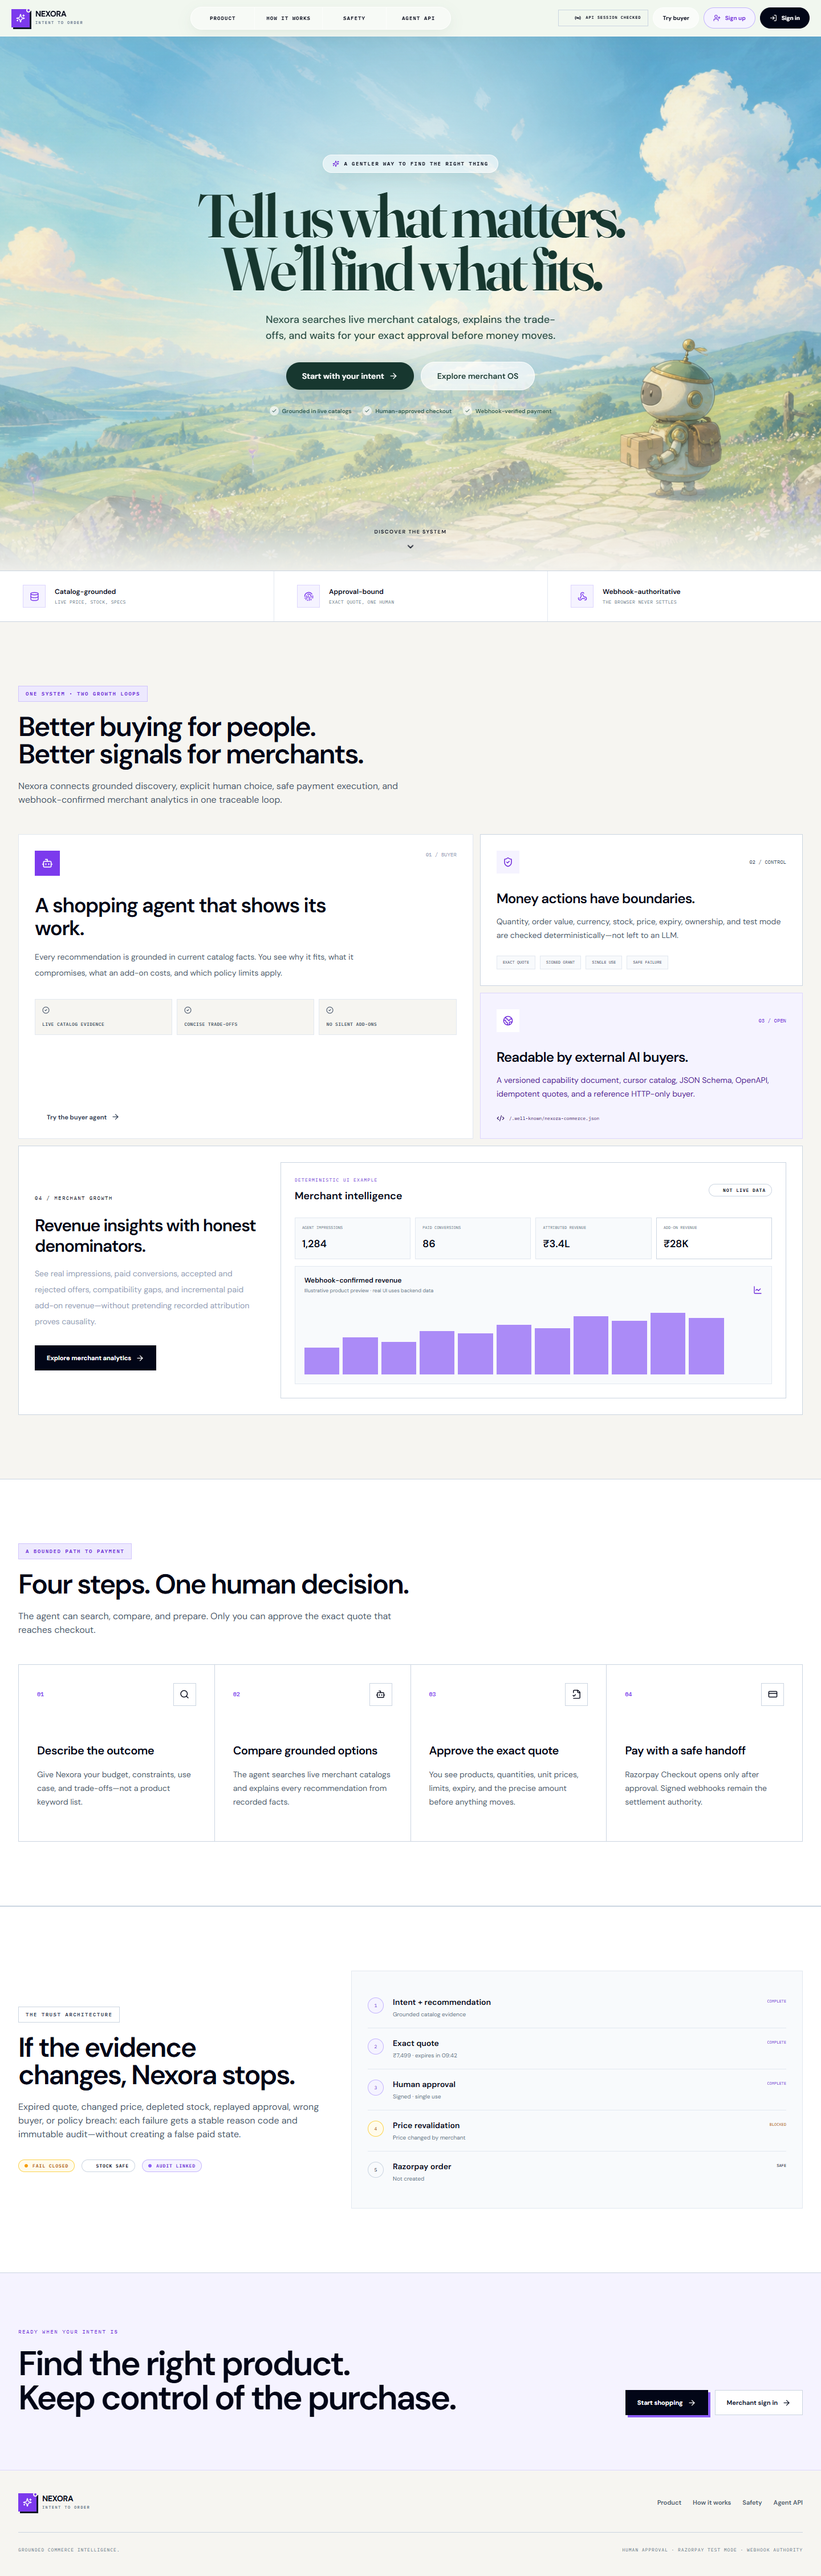
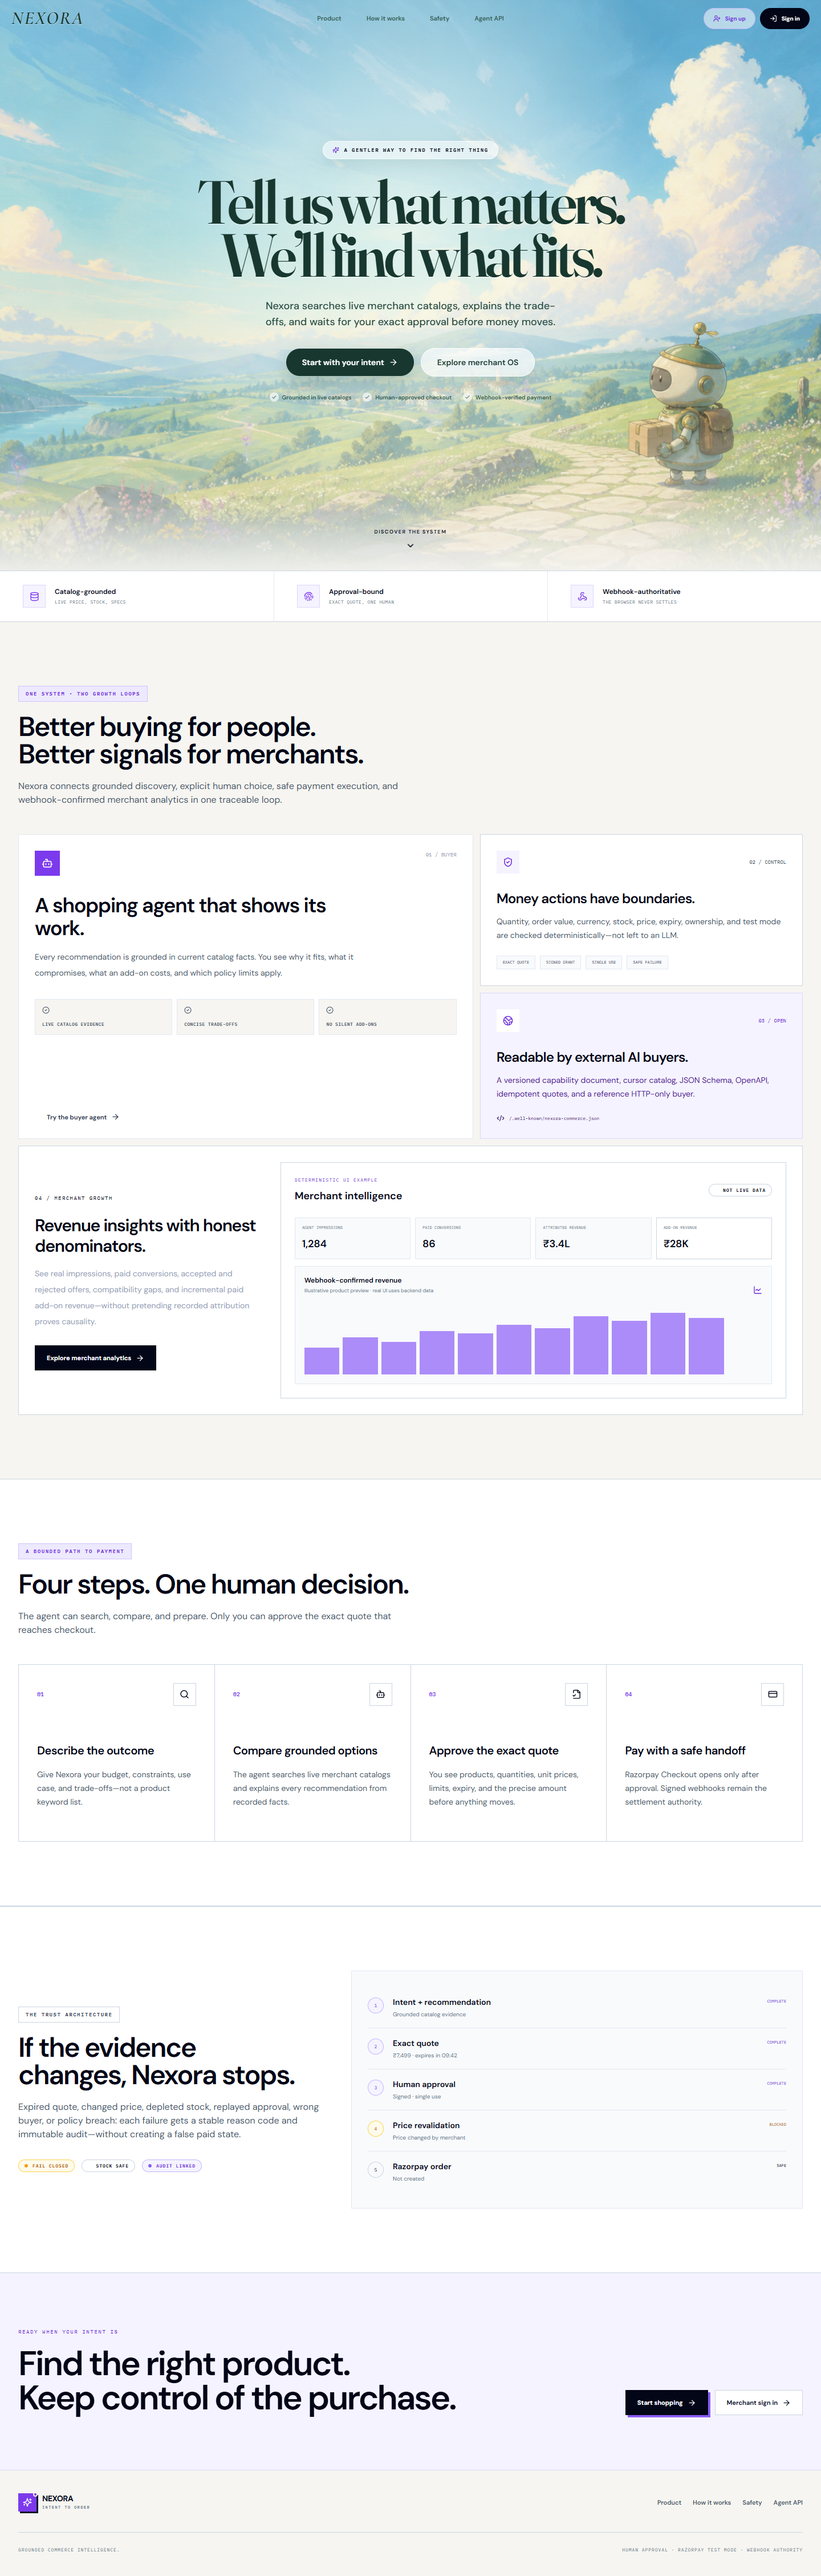
feat: refine transparent landing navigation

Changed region(s): [[0.0, 0.0, 1.0, 0.2186]]

diff --git a/frontend/src/components/common/Navbar.jsx b/frontend/src/components/common/Navbar.jsx
@@ -1,5 +1,5 @@
-import { Bot, LogIn, LogOut, Menu, Radio, Store, UserPlus, X } from 'lucide-react'
-import { useEffect, useState } from 'react'
+import { Bot, LogIn, LogOut, Menu, Store, UserPlus, X } from 'lucide-react'
+import { useState } from 'react'
 import { Link, useLocation, useNavigate } from 'react-router-dom'
 import { useAuth } from '../../context/AuthContext'
 import { API_BASE_URL } from '../../services/api'
@@ -8,27 +8,14 @@ import Brand from '../Brand'
 export default function Navbar() {
   const location = useLocation()
   const navigate = useNavigate()
-  const { user, loading, error, signOut } = useAuth()
+  const { user, loading, signOut } = useAuth()
   const [mobileOpen, setMobileOpen] = useState(false)
-  const [scrolled, setScrolled] = useState(false)
   const landing = location.pathname === '/'
-  const storybookNav = landing && !scrolled
   const merchantMode = location.pathname.startsWith('/merchant')
   const buyerMode = location.pathname.startsWith('/buyer')
   const agentApiUrl = API_BASE_URL.startsWith('http')
     ? new URL('commerce/v1/openapi.json', API_BASE_URL).toString()
     : '/api/commerce/v1/openapi.json'
-
-  useEffect(() => {
-    if (!landing) {
-      setScrolled(false)
-      return undefined
-    }
-    const sync = () => setScrolled(window.scrollY > 72)
-    sync()
-    window.addEventListener('scroll', sync, { passive: true })
-    return () => window.removeEventListener('scroll', sync)
-  }, [landing])
 
   const go = (path) => {
     setMobileOpen(false)
@@ -36,18 +23,18 @@ export default function Navbar() {
   }
 
   return (
-    <header className={`sticky top-0 z-[60] h-16 border-b px-3 text-slate-950 backdrop-blur-xl transition-all duration-500 sm:px-5 ${storybookNav ? 'border-white/50 bg-[#eef8ef]/65 shadow-[0_10px_35px_rgba(43,88,72,.06)]' : 'border-slate-300 bg-white/95 shadow-none'}`}>
-      <div className="mx-auto flex h-full max-w-[1440px] items-center justify-between gap-4">
-        <Link to="/" className="focus-ring shrink-0" aria-label="Nexora home"><Brand inverse /></Link>
+    <header className={`${landing ? 'absolute bg-transparent' : 'sticky border-b border-slate-300 bg-white/95 backdrop-blur-xl'} top-0 z-[60] h-16 w-full px-3 text-slate-950 sm:px-5`}>
+      <div className="relative mx-auto flex h-full max-w-[1440px] items-center justify-between gap-4">
+        <Link to="/" className="focus-ring shrink-0" aria-label="Nexora home"><Brand inverse={!landing} wordmark={landing} /></Link>
 
         {landing && (
-          <nav className={`hidden items-stretch transition-all duration-500 lg:flex ${storybookNav ? 'h-10 overflow-hidden rounded-full border border-white/75 bg-white/45 shadow-[0_8px_24px_rgba(44,87,70,.08)]' : 'h-full border-x border-slate-200'}`} aria-label="Landing navigation">
+          <nav className="absolute left-1/2 hidden -translate-x-1/2 items-center gap-8 lg:flex xl:gap-11" aria-label="Landing navigation">
             {[
               ['Product', '#product'],
               ['How it works', '#how-it-works'],
               ['Safety', '#safety'],
               ['Agent API', agentApiUrl],
-            ].map(([label, href]) => <a key={label} href={href} className={`focus-ring grid min-w-28 place-items-center border-r px-5 font-mono text-[9px] font-semibold uppercase tracking-[0.12em] transition last:border-0 hover:bg-white/75 hover:text-violet-700 ${storybookNav ? 'border-white/65 text-emerald-950/65' : 'border-slate-200 text-slate-500'}`}>{label}</a>)}
+            ].map(([label, href]) => <a key={label} href={href} className="focus-ring relative py-2 text-[11px] font-semibold text-[#31594f] transition after:absolute after:inset-x-0 after:-bottom-0.5 after:h-px after:origin-center after:scale-x-0 after:bg-[#17372f] after:transition-transform hover:text-[#17372f] hover:after:scale-x-100">{label}</a>)}
           </nav>
         )}
 
@@ -59,23 +46,20 @@ export default function Navbar() {
         )}
 
         <div className="hidden items-center gap-2 sm:flex">
-          <span className={`hidden items-center gap-2 border px-3 py-2 xl:flex ${error ? 'border-rose-200 bg-rose-50 text-rose-700' : loading ? 'border-amber-200 bg-amber-50 text-amber-700' : 'border-emerald-200 bg-emerald-50 text-emerald-700'}`}><span className={`size-2 rounded-full ${error ? 'bg-rose-500' : loading ? 'bg-amber-500' : 'bg-emerald-500'}`} /><Radio size={11} /><span className="font-mono text-[7px] font-semibold uppercase tracking-[0.13em]">{error ? 'API unavailable' : loading ? 'Checking API session' : 'API session checked'}</span></span>
-          {landing && <button type="button" onClick={() => go('/buyer')} className={`focus-ring border px-4 py-2.5 text-[10px] font-bold transition-all duration-500 hover:border-slate-950 ${storybookNav ? 'rounded-full border-white/80 bg-white/60 text-emerald-950' : 'border-slate-300 bg-white'}`}>Try buyer</button>}
-          {!loading && !user && <button type="button" onClick={() => go('/login?mode=signup')} className={`focus-ring flex items-center gap-2 border border-violet-300 bg-violet-50 px-4 py-2.5 text-[10px] font-bold text-violet-700 transition-all duration-500 hover:border-violet-600 hover:bg-violet-100 ${storybookNav ? 'rounded-full' : ''}`}><UserPlus size={13} /> Sign up</button>}
-          <button type="button" onClick={() => user ? signOut() : go('/login')} title={user ? `Signed in as ${user.display_name}` : 'Sign in'} className={`focus-ring flex items-center gap-2 border border-slate-950 bg-slate-950 px-4 py-2.5 text-[10px] font-bold text-white transition-all duration-500 hover:bg-violet-600 ${storybookNav ? 'rounded-full border-emerald-950 bg-emerald-950' : ''}`}>
+          {!loading && !user && <button type="button" onClick={() => go('/login?mode=signup')} className={`focus-ring flex items-center gap-2 border border-violet-300 bg-violet-50 px-4 py-2.5 text-[10px] font-bold text-violet-700 transition hover:border-violet-600 hover:bg-violet-100 ${landing ? 'rounded-full bg-white/55 backdrop-blur-sm' : ''}`}><UserPlus size={13} /> Sign up</button>}
+          <button type="button" onClick={() => user ? signOut() : go('/login')} title={user ? `Signed in as ${user.display_name}` : 'Sign in'} className={`focus-ring flex items-center gap-2 border border-slate-950 bg-slate-950 px-4 py-2.5 text-[10px] font-bold text-white transition hover:bg-violet-600 ${landing ? 'rounded-full border-emerald-950 bg-emerald-950' : ''}`}>
             {user ? <LogOut size={13} /> : <LogIn size={13} />}<span>{user ? 'Sign out' : 'Sign in'}</span>
           </button>
         </div>
 
-        <button type="button" onClick={() => setMobileOpen((open) => !open)} className="focus-ring grid size-10 place-items-center border border-slate-300 sm:hidden" aria-expanded={mobileOpen} aria-label="Toggle navigation">{mobileOpen ? <X size={18} /> : <Menu size={18} />}</button>
+        <button type="button" onClick={() => setMobileOpen((open) => !open)} className={`focus-ring grid size-10 place-items-center sm:hidden ${landing ? 'rounded-full bg-white/45 text-emerald-950 backdrop-blur-sm' : 'border border-slate-300'}`} aria-expanded={mobileOpen} aria-label="Toggle navigation">{mobileOpen ? <X size={18} /> : <Menu size={18} />}</button>
       </div>
 
       {mobileOpen && (
         <div className="absolute inset-x-0 top-16 border-b border-slate-300 bg-white p-4 shadow-xl sm:hidden">
           <div className="grid gap-2">
-            {landing && <><a href="#product" onClick={() => setMobileOpen(false)} className="border border-slate-200 px-4 py-3 text-xs font-semibold">Product</a><a href="#how-it-works" onClick={() => setMobileOpen(false)} className="border border-slate-200 px-4 py-3 text-xs font-semibold">How it works</a><a href="#safety" onClick={() => setMobileOpen(false)} className="border border-slate-200 px-4 py-3 text-xs font-semibold">Safety</a></>}
-            <button type="button" onClick={() => go('/buyer')} className="flex items-center gap-2 border border-slate-200 px-4 py-3 text-left text-xs font-semibold"><Bot size={14} /> Buyer agent</button>
-            <button type="button" onClick={() => go('/merchant')} className="flex items-center gap-2 border border-slate-200 px-4 py-3 text-left text-xs font-semibold"><Store size={14} /> Merchant OS</button>
+            {landing && <><a href="#product" onClick={() => setMobileOpen(false)} className="border border-slate-200 px-4 py-3 text-xs font-semibold">Product</a><a href="#how-it-works" onClick={() => setMobileOpen(false)} className="border border-slate-200 px-4 py-3 text-xs font-semibold">How it works</a><a href="#safety" onClick={() => setMobileOpen(false)} className="border border-slate-200 px-4 py-3 text-xs font-semibold">Safety</a><a href={agentApiUrl} onClick={() => setMobileOpen(false)} className="border border-slate-200 px-4 py-3 text-xs font-semibold">Agent API</a></>}
+            {!landing && <><button type="button" onClick={() => go('/buyer')} className="flex items-center gap-2 border border-slate-200 px-4 py-3 text-left text-xs font-semibold"><Bot size={14} /> Buyer agent</button><button type="button" onClick={() => go('/merchant')} className="flex items-center gap-2 border border-slate-200 px-4 py-3 text-left text-xs font-semibold"><Store size={14} /> Merchant OS</button></>}
             {!loading && !user && <button type="button" onClick={() => go('/login?mode=signup')} className="flex items-center justify-center gap-2 border border-violet-300 bg-violet-50 px-4 py-3 text-xs font-semibold text-violet-700"><UserPlus size={14} /> Sign up</button>}
             {!loading && <button type="button" onClick={() => { setMobileOpen(false); user ? signOut() : navigate('/login') }} className="flex items-center justify-center gap-2 bg-slate-950 px-4 py-3 text-xs font-semibold text-white">{user ? <LogOut size={14} /> : <LogIn size={14} />}{user ? 'Sign out' : 'Sign in'}</button>}
           </div>

diff --git a/frontend/src/pages/LandingPage.jsx b/frontend/src/pages/LandingPage.jsx
@@ -59,13 +59,13 @@ function MerchantPreview() {
 export default function LandingPage() {
   return (
     <main className="overflow-hidden bg-[#f6f5f1] text-slate-950">
-      <section className="storybook-hero relative isolate min-h-[calc(100svh-4rem)] overflow-hidden border-b border-emerald-950/10 px-4 sm:px-6 lg:px-8">
+      <section className="storybook-hero relative isolate min-h-svh overflow-hidden border-b border-emerald-950/10 px-4 sm:px-6 lg:px-8">
         <div className="storybook-hero-art absolute inset-0 -z-30" aria-hidden="true" />
         <div className="storybook-hero-scrim absolute inset-0 -z-20" aria-hidden="true" />
         <div className="storybook-cloud storybook-cloud-one" aria-hidden="true" />
         <div className="storybook-cloud storybook-cloud-two" aria-hidden="true" />
 
-        <div className="mx-auto flex min-h-[calc(100svh-4rem)] max-w-[1440px] flex-col items-center justify-center pb-32 pt-16 text-center sm:pb-36 sm:pt-20">
+        <div className="mx-auto flex min-h-svh max-w-[1440px] flex-col items-center justify-center pb-32 pt-24 text-center sm:pb-36 sm:pt-24">
           <div className="storybook-copy relative z-10 flex max-w-4xl flex-col items-center">
             <div className="inline-flex items-center gap-2 rounded-full border border-white/70 bg-white/55 px-4 py-2 font-mono text-[9px] font-semibold uppercase tracking-[0.16em] text-emerald-950 shadow-[0_10px_35px_rgba(30,64,52,.12)] backdrop-blur-md">
               <Sparkles size={12} className="text-violet-700" /> A gentler way to find the right thing

diff --git a/frontend/src/index.css b/frontend/src/index.css
@@ -1,4 +1,4 @@
-@import url('https://fonts.googleapis.com/css2?family=DM+Sans:wght@400;500;600;700&family=Fraunces:opsz,wght@9..144,500;9..144,600&family=IBM+Plex+Mono:wght@400;500;600&display=swap');
+@import url('https://fonts.googleapis.com/css2?family=Cormorant+Garamond:ital,wght@1,600;1,700&family=DM+Sans:wght@400;500;600;700&family=Fraunces:opsz,wght@9..144,500;9..144,600&family=IBM+Plex+Mono:wght@400;500;600&display=swap');
 
 @tailwind base;
 @tailwind components;
@@ -48,6 +48,13 @@
 .storybook-title {
   font-family: 'Fraunces', Georgia, serif;
   font-variation-settings: 'SOFT' 70, 'WONK' 1;
+}
+
+.nexora-wordmark {
+  font-family: 'Cormorant Garamond', Georgia, serif;
+  font-style: italic;
+  letter-spacing: .055em;
+  text-shadow: 0 1px 0 rgba(255, 255, 255, .45);
 }
 
 .storybook-copy {

diff --git a/frontend/src/components/Brand.jsx b/frontend/src/components/Brand.jsx
@@ -1,6 +1,10 @@
 import { Sparkles } from 'lucide-react'
 
-export default function Brand({ compact = false, inverse = false }) {
+export default function Brand({ compact = false, inverse = false, wordmark = false }) {
+  if (wordmark) {
+    return <span className="nexora-wordmark text-[1.7rem] font-semibold leading-none text-[#17372f] sm:text-[2rem]">NEXORA</span>
+  }
+
   return (
     <div className="flex items-center gap-2.5">
       <div className="relative grid size-8 place-items-center bg-violet-600 text-white shadow-[3px_3px_0_#111827]">
